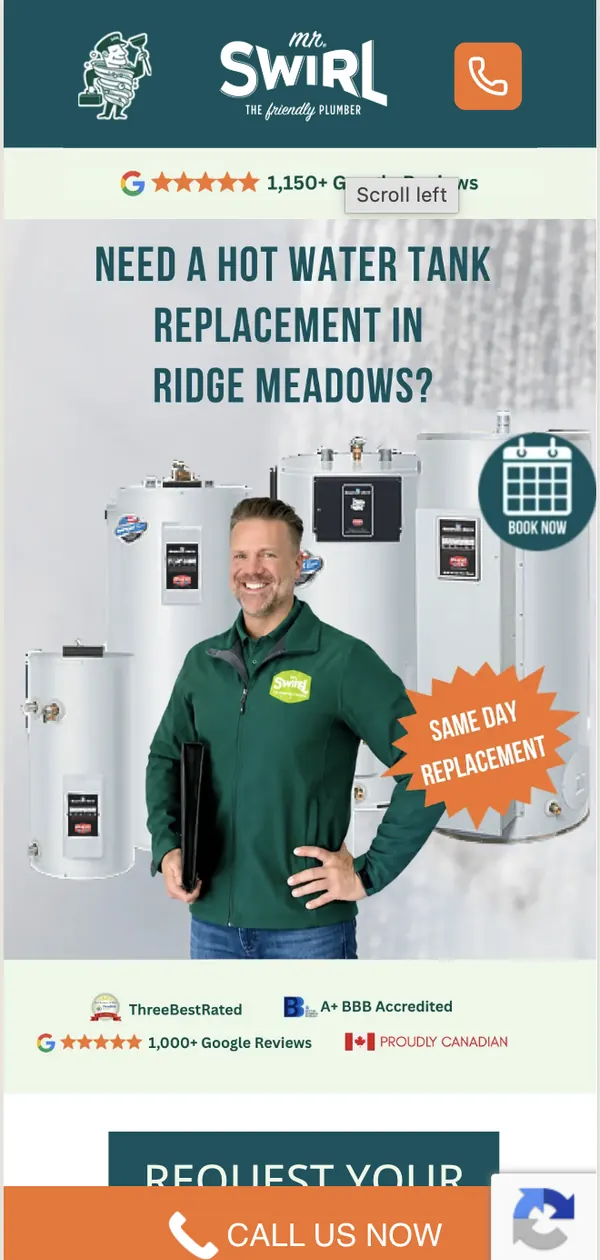
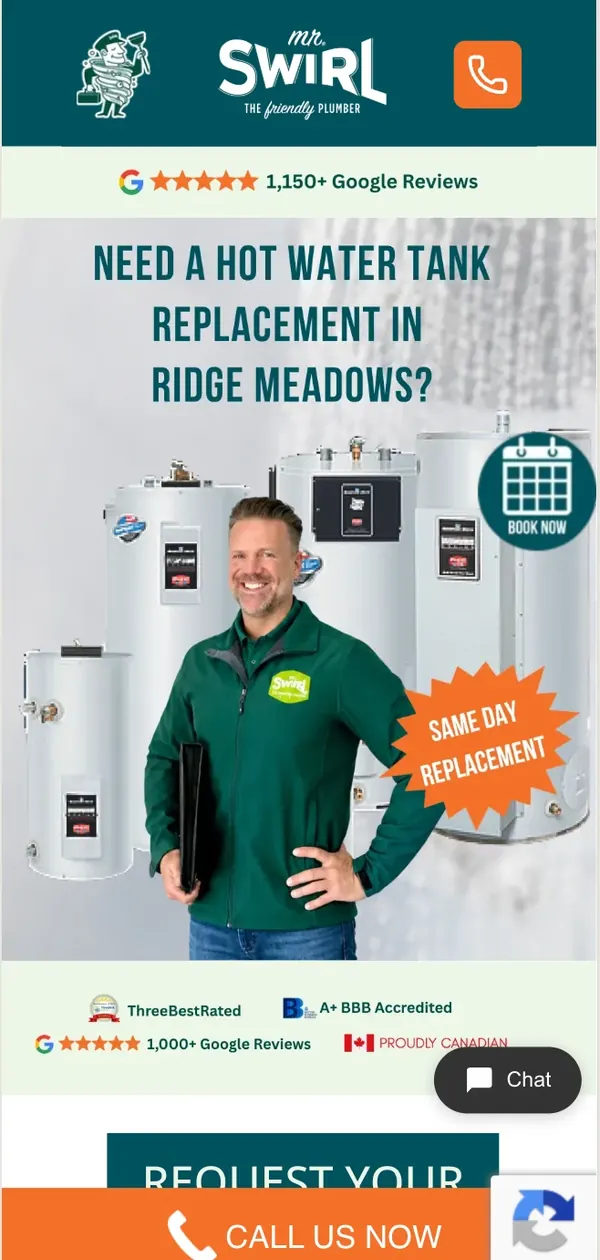
Web Developer page: new Ridge Meadows mobile shot, accurate ACF/PHP wording
Claude-Session: https://claude.ai/code/session_01CDUuVyU6kMpF8SE6Ncafkt

diff --git a/web-developer/index.html b/web-developer/index.html
@@ -230,7 +230,7 @@
       <div>
         <p class="hero-title-line">Web Developer · WordPress · Landing Pages · GA4 &amp; GTM</p>
         <h1>I build landing pages for Google Ads, and I check that <em>every conversion fires</em>.</h1>
-        <p class="value">I build WordPress sites and landing pages for paid traffic, from brief to launch, across several client accounts. I've spent 4+ years in WordPress, working with custom themes, ACF, custom post types, and the PHP to fix what breaks. I also set up and debug the GA4, Google Tag Manager and Google Ads tracking that shows clients which ads bring in leads.</p>
+        <p class="value">I build WordPress sites and landing pages for paid traffic, from brief to launch, across several client accounts. I've spent 4+ years in WordPress, working with Elementor, Divi, child themes, plugins and updates, and I have a working knowledge of ACF and PHP. I also set up and debug the GA4, Google Tag Manager and Google Ads tracking that shows clients which ads bring in leads.</p>
         <ul class="facts" aria-label="Quick facts">
           <li><b>4+ yrs</b> WordPress</li>
           <li><b>20+</b> sites &amp; landing pages</li>
@@ -440,7 +440,7 @@
       <h2 class="reveal">Tools I use every day</h2>
       <p class="section-intro reveal">I use AI coding tools to move faster, but I review and understand every line before I ship it.</p>
       <div class="skill-grid">
-        <div class="skill reveal"><h3>WordPress</h3><ul class="tags"><li>Custom themes</li><li>Child themes</li><li>ACF</li><li>Custom post types</li><li>PHP</li><li>Elementor</li><li>Divi</li><li>WP Rocket</li><li>Staging → production</li></ul></div>
+        <div class="skill reveal"><h3>WordPress</h3><ul class="tags"><li>Elementor</li><li>Divi</li><li>Child themes</li><li>Plugins &amp; updates</li><li>WP Rocket</li><li>Staging → production</li><li>ACF (working knowledge)</li><li>PHP (basics)</li></ul></div>
         <div class="skill reveal"><h3>Front-end</h3><ul class="tags"><li>HTML5</li><li>CSS / responsive</li><li>JavaScript</li><li>Accessibility</li><li>Pixel-matching mockups</li></ul></div>
         <div class="skill reveal"><h3>Tracking &amp; Analytics</h3><ul class="tags"><li>GA4</li><li>Google Tag Manager</li><li>dataLayer</li><li>Google Ads conversions</li><li>Looker Studio</li></ul></div>
         <div class="skill reveal"><h3>Performance &amp; SEO</h3><ul class="tags"><li>Core Web Vitals</li><li>PageSpeed</li><li>Technical SEO</li><li>Search Console</li></ul></div>
